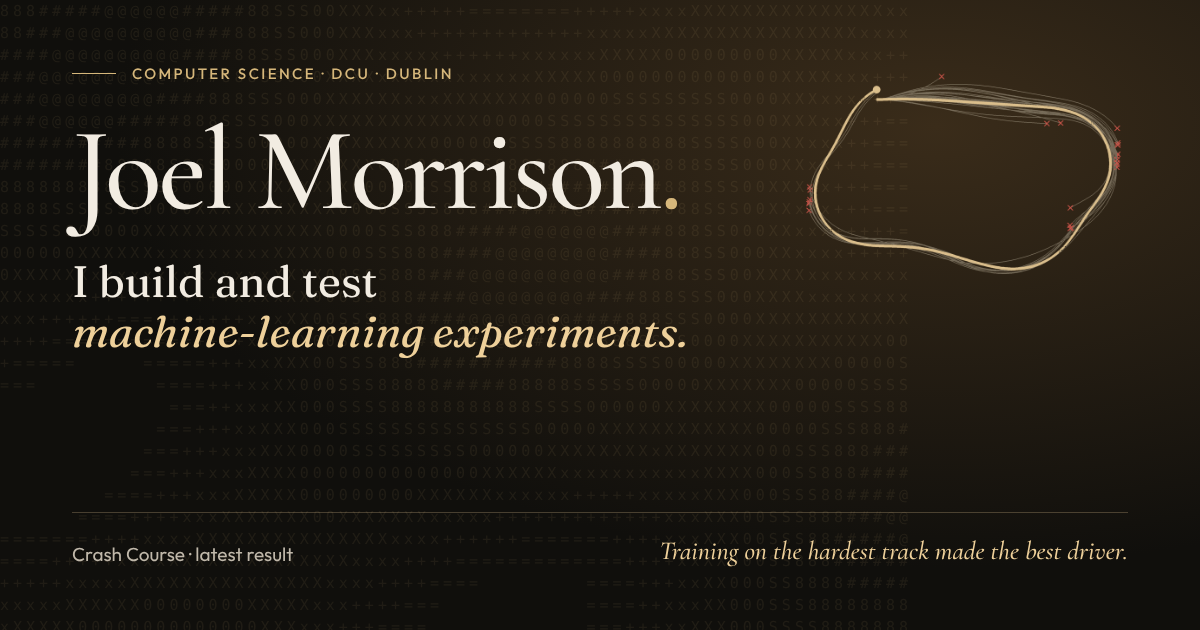
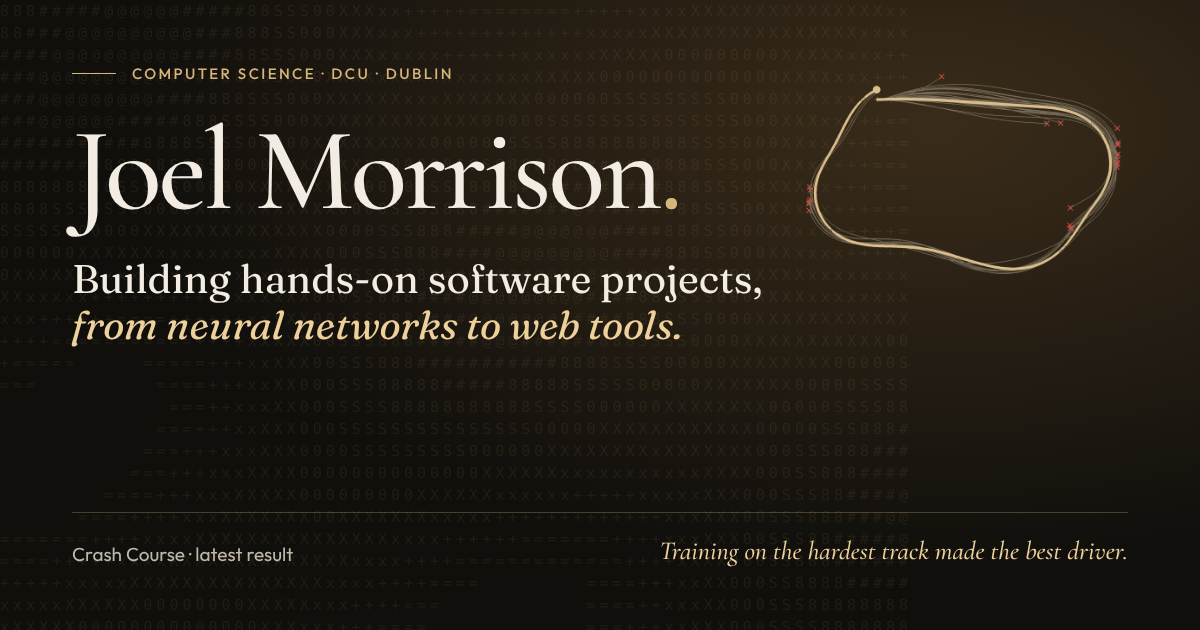
Polish: no fake arrows on experience, centred results chart, phone hero note, footer spacing

Changed region(s): [[0.0617, 0.4222, 0.6475, 0.573]]

diff --git a/index.html b/index.html
@@ -4,11 +4,11 @@
   <meta charset="utf-8">
   <meta name="viewport" content="width=device-width, initial-scale=1">
   <meta name="theme-color" content="#100f0c">
-  <meta name="description" content="Joel Morrison, second-year Computer Science student at DCU. I build and test machine-learning experiments in Python, such as Crash Course, where neural-network drivers learn to race by neuroevolution.">
+  <meta name="description" content="Joel Morrison, second-year Computer Science student at DCU. I build hands-on software projects, from neural networks to web tools, such as Crash Course, where neural-network drivers learn to race by neuroevolution.">
   <link rel="canonical" href="https://joelmorrison121-cpu.github.io/">
   <meta property="og:type" content="website">
   <meta property="og:title" content="Joel Morrison — Computer Science Portfolio">
-  <meta property="og:description" content="Second-year DCU Computer Science student building and testing machine-learning experiments. Crash Course: training on the hardest track produced the only driver that laps all four.">
+  <meta property="og:description" content="Second-year DCU Computer Science student building hands-on software projects, from neural networks to web tools. Crash Course: training on the hardest track produced the only driver that laps all four.">
   <meta property="og:url" content="https://joelmorrison121-cpu.github.io/">
   <meta property="og:site_name" content="Joel Morrison">
   <meta property="og:image" content="https://joelmorrison121-cpu.github.io/og-image.png">
@@ -126,7 +126,7 @@
               <span class="hero-name-line last"><span class="name-fallback">Morrison<span class="name-period">.</span></span></span>
             </h1>
             <p class="hero-meta"><span class="type-slot" id="hero-type-meta">Year 2 · DCU · Class of 2029</span></p>
-            <p class="hero-subline">I build and test<br><em>machine-learning experiments.</em></p>
+            <p class="hero-subline">Building hands-on software projects,<br><em>from neural networks to web tools.</em></p>
             <p class="hero-description">Second-year Computer Science at DCU. Looking for a software or machine-learning internship for summer 2027.</p>
             <nav class="hero-socials" aria-label="Connect with Joel">
               <a href="https://github.com/joelmorrison121-cpu" target="_blank" rel="noopener noreferrer">GitHub ↗</a>
@@ -290,9 +290,9 @@
           <div><h2 id="experience-title">Good work starts<br><em>with people.</em></h2><p class="heading-intro">People-facing roles that sharpened communication and composure.</p></div>
         </div>
                 <div class="experience-list">
-          <article class="experience-item"><span class="experience-type">SEP 2026 – PRESENT</span><div><h3>On-Street Fundraiser <span>— Concern Worldwide</span></h3><p>Recruit regular-giving donors through face-to-face conversations, explain the charity’s work and handle questions while working to team targets.</p></div><span class="experience-arrow" aria-hidden="true">↗</span></article>
-          <article class="experience-item"><span class="experience-type">MAY 2026 – PRESENT</span><div><h3>Matchday &amp; Event Steward <span>— Croke Park</span></h3><p>Check tickets, direct supporters and respond to queries, coordinating with security teams to support safe crowd flow.</p></div><span class="experience-arrow" aria-hidden="true">↗</span></article>
-          <article class="experience-item"><span class="experience-type">SEP 2025 – MAR 2026</span><div><h3>Cashier Operative <span>— HelloFresh</span></h3><p>Processed transactions in a fast-paced fulfilment environment and helped new starters learn procedures while studying full-time.</p></div><span class="experience-arrow" aria-hidden="true">↗</span></article>
+          <article class="experience-item"><span class="experience-type">SEP 2026 – PRESENT</span><div><h3>On-Street Fundraiser <span>— Concern Worldwide</span></h3><p>Recruit regular-giving donors through face-to-face conversations, explain the charity’s work and handle questions while working to team targets.</p></div></article>
+          <article class="experience-item"><span class="experience-type">MAY 2026 – PRESENT</span><div><h3>Matchday &amp; Event Steward <span>— Croke Park</span></h3><p>Check tickets, direct supporters and respond to queries, coordinating with security teams to support safe crowd flow.</p></div></article>
+          <article class="experience-item"><span class="experience-type">SEP 2025 – MAR 2026</span><div><h3>Cashier Operative <span>— HelloFresh</span></h3><p>Processed transactions in a fast-paced fulfilment environment and helped new starters learn procedures while studying full-time.</p></div></article>
         </div>
         <div class="activity-summary"><p class="project-state">ALONGSIDE THE DEGREE</p><h3>Redbrick &amp; hackathons</h3><p>Redbrick member at DCU, with workshops in Linux and web hosting. At hackathons I built <a href="#leap">Leap</a> solo with Manus at the Manus AI Dublin Build Challenge (8 Oct 2026) and the React frontend for <a href="#split">Split</a> at BUILD IRL Vol. 1.</p></div>
       </div>

diff --git a/styles.css b/styles.css
@@ -673,3 +673,33 @@ details.is-animating { overflow: hidden; }
 .sm-cv:hover > span { transform: translate(2px, -2px); }
 [data-open="true"] .sm-cv { opacity: 0; pointer-events: none; }
 @media (max-width: 740px) { .sm-cv { margin-right: 1.3rem; } }
+
+/* CV link: the underline is drawn, not a border, so it can retract into the
+   arrow once the header bar appears; the arrow then takes over as the cue. */
+.sm-cv { position: relative; border-bottom: 0; padding-bottom: 0.45rem; }
+.sm-cv::after { content: ""; position: absolute; left: 0; right: 0; bottom: 0; height: 1px; background: var(--brass); transform-origin: right center; transition: transform 0.45s var(--ease), background 0.25s; }
+.sm-cv:hover::after { background: var(--brass-light); }
+.sm-cv > span { transition: transform 0.45s var(--ease), color 0.3s; }
+.is-scrolled .sm-cv::after { transform: scaleX(0); }
+.is-scrolled .sm-cv > span { color: var(--brass-light); transform: translate(1px, -1px) scale(1.25); }
+.is-scrolled .sm-cv:hover > span { transform: translate(3px, -3px) scale(1.25); }
+.is-scrolled .sm-cv:hover::after { transform: scaleX(1); }
+.hero-subline { text-wrap: balance; }
+
+/* Polish pass ---------------------------------------------------------------- */
+/* Experience rows aren't links, so they no longer show a link arrow. */
+.experience-item { grid-template-columns: 24% 1fr; }
+@media (max-width: 740px) { .experience-item { grid-template-columns: 1fr; } }
+
+/* Crash Course card: the chart sits in the middle of its column, not at the top
+   with a gap underneath. */
+@media (min-width: 1051px) { .results-capture { justify-content: center; } }
+
+/* Footer: name and location read as one line. */
+.footer-location { margin-left: 0.35rem; }
+
+/* Phones: the latest-result note gets the full width under the folder. */
+@media (max-width: 740px) {
+  .hero-aside { justify-content: center; }
+  .hero-note { width: 100%; margin-top: 0.5rem; }
+}
